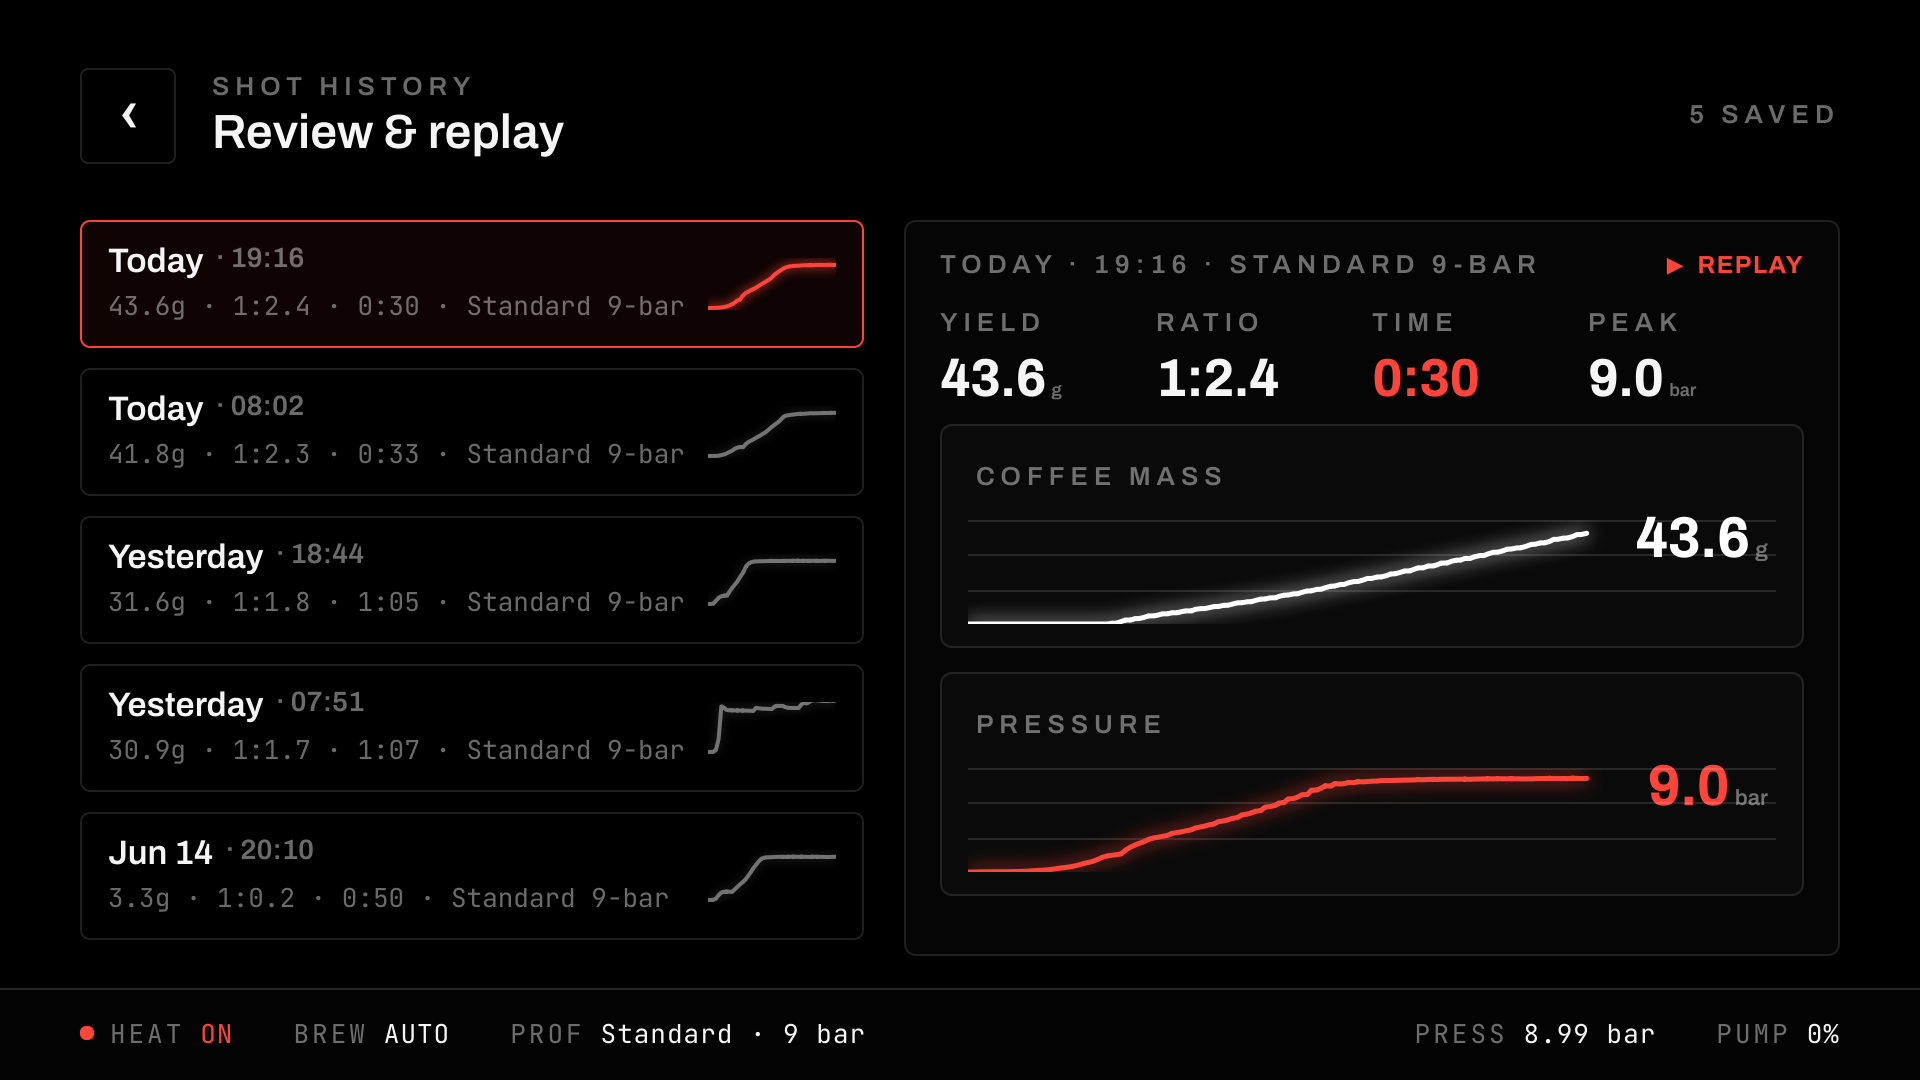
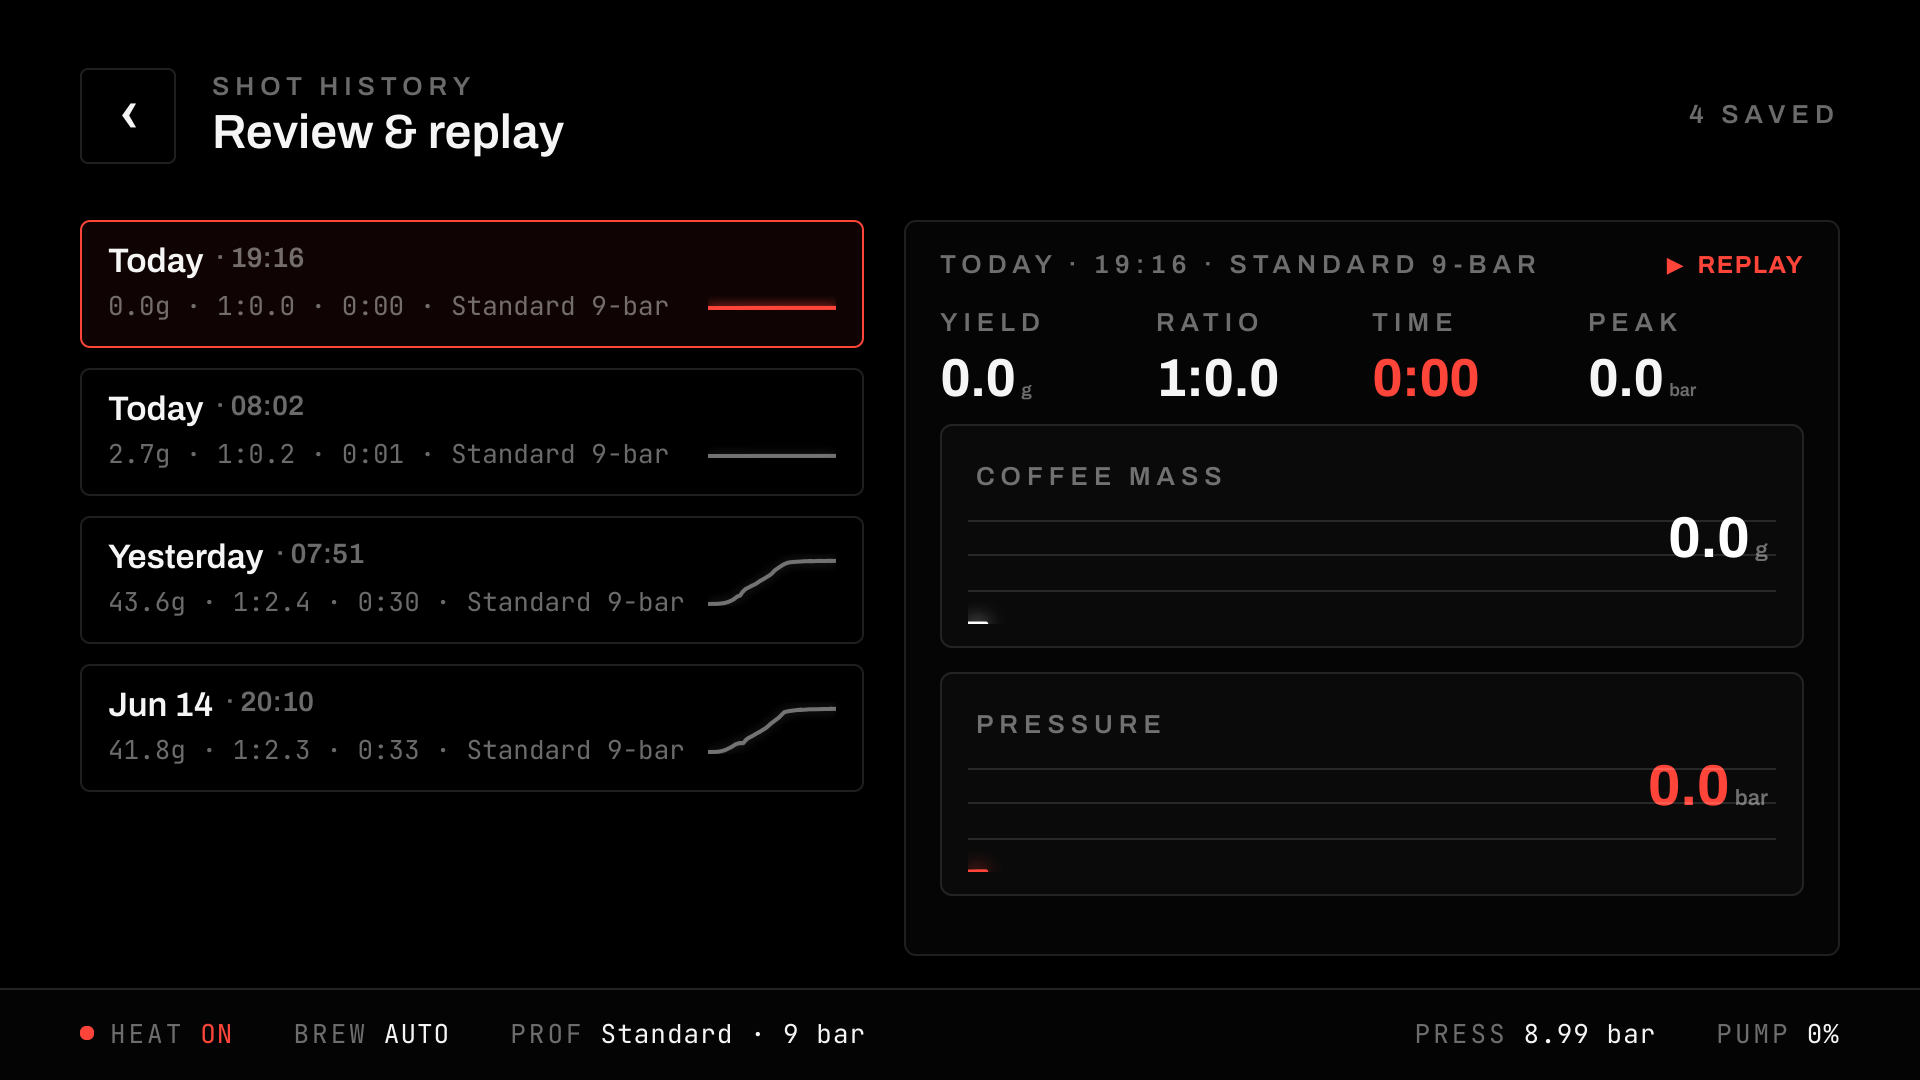
History: scrollable ListView + opaque status footer
Shot list is now a flickable ListView (touch-scroll through all saved shots),
clipped to its bounds. Status bar background made opaque (was the translucent
statusFill) so scrolling rows no longer bleed through the footer. Harden the
render harness against partial/empty brew_log files.

diff --git a/ui/source/main_precision.qml b/ui/source/main_precision.qml
@@ -578,32 +578,37 @@ ApplicationWindow {
                            text: (histRoot.shots ? histRoot.shots.length : 0) + " SAVED" }
             }
 
-            // List
-            Column {
+            // List (scrollable / flickable)
+            ListView {
+                id: shotList
                 anchors.top: parent.top; anchors.topMargin: 110
                 anchors.left: parent.left; anchors.leftMargin: 40
-                width: 392; spacing: 10
-                Repeater {
-                    model: histRoot.shots ? histRoot.shots.length : 0
-                    delegate: Rectangle {
-                        width: 392; height: 64; radius: 5
-                        property bool seld: histRoot.sel === index
-                        property var sh: histRoot.shots[index]
-                        color: seld ? Qt.rgba(1,0.27,0.227,0.06) : "transparent"
-                        border.width: 1; border.color: seld ? Theme.red : Theme.hair
-                        Column {
-                            anchors.left: parent.left; anchors.leftMargin: 14
-                            anchors.verticalCenter: parent.verticalCenter; spacing: 4
-                            Row { spacing: 6
-                                Text { text: histRoot.shots[index].date; color: Theme.ink; font.family: Theme.archivo; font.pixelSize: 17; font.weight: Theme.w600 }
-                                Text { text: "· " + histRoot.shots[index].time; color: Theme.dim; font.family: Theme.archivo; font.pixelSize: 14 }
-                            }
-                            Text { text: histRoot.shots[index].meta; color: Theme.dim; font.family: Theme.mono; font.pixelSize: 13 }
+                anchors.bottom: parent.bottom; anchors.bottomMargin: 14
+                width: 392
+                clip: true
+                spacing: 10
+                cacheBuffer: 1200
+                boundsBehavior: Flickable.StopAtBounds
+                flickDeceleration: 2500
+                model: histRoot.shots ? histRoot.shots.length : 0
+                delegate: Rectangle {
+                    width: 392; height: 64; radius: 5
+                    property bool seld: histRoot.sel === index
+                    color: seld ? Qt.rgba(1,0.27,0.227,0.06) : "transparent"
+                    border.width: 1; border.color: seld ? Theme.red : Theme.hair
+                    Column {
+                        anchors.left: parent.left; anchors.leftMargin: 14
+                        anchors.right: rowSpark.left; anchors.rightMargin: 10
+                        anchors.verticalCenter: parent.verticalCenter; spacing: 4
+                        Row { spacing: 6
+                            Text { text: histRoot.shots[index].date; color: Theme.ink; font.family: Theme.archivo; font.pixelSize: 17; font.weight: Theme.w600 }
+                            Text { text: "· " + histRoot.shots[index].time; color: Theme.dim; font.family: Theme.archivo; font.pixelSize: 14 }
                         }
-                        Sparkline { anchors.right: parent.right; anchors.rightMargin: 14; anchors.verticalCenter: parent.verticalCenter
-                                    width: 64; height: 26; pts: histRoot.shots[index].spark; color: seld ? Theme.red : Theme.dim }
-                        MouseArea { anchors.fill: parent; onClicked: { histRoot.sel = index; window.selectedShot = index } }
+                        Text { width: parent.width; elide: Text.ElideRight; text: histRoot.shots[index].meta; color: Theme.dim; font.family: Theme.mono; font.pixelSize: 13 }
                     }
+                    Sparkline { id: rowSpark; anchors.right: parent.right; anchors.rightMargin: 14; anchors.verticalCenter: parent.verticalCenter
+                                width: 64; height: 26; pts: histRoot.shots[index].spark; color: seld ? Theme.red : Theme.dim }
+                    MouseArea { anchors.fill: parent; onClicked: { histRoot.sel = index; window.selectedShot = index } }
                 }
             }
 

diff --git a/ui/source/precision/StatusBar.qml b/ui/source/precision/StatusBar.qml
@@ -18,7 +18,9 @@ Rectangle {
     signal profTapped()
 
     height: 46
-    color: Theme.statusFill
+    // Opaque (not the translucent statusFill) so scrolling content behind it
+    // can't bleed through. ~1.5% white lift on true black, but solid.
+    color: Qt.rgba(0.015, 0.015, 0.015, 1.0)
 
     Rectangle { anchors.top: parent.top; width: parent.width; height: 1; color: Theme.hair }
 

diff --git a/ui/source/_render_precision.py b/ui/source/_render_precision.py
@@ -121,7 +121,12 @@ def downpts(press, n=40):
 hist = []
 labels = [("Today","19:16"),("Today","08:02"),("Yesterday","18:44"),("Yesterday","07:51"),("Jun 14","20:10")]
 for i, lg in enumerate(reversed(alllogs[-5:])):
-    rec, mass, press, dur = load_log(lg)
+    try:
+        rec, mass, press, dur = load_log(lg)
+        if not mass:
+            continue
+    except Exception:
+        continue
     finw = rec.get("final_weight_g", 0) or 0
     maxp = rec.get("max_pressure_bar", 0) or 0
     mm, ss = int(dur)//60, int(dur)%60
